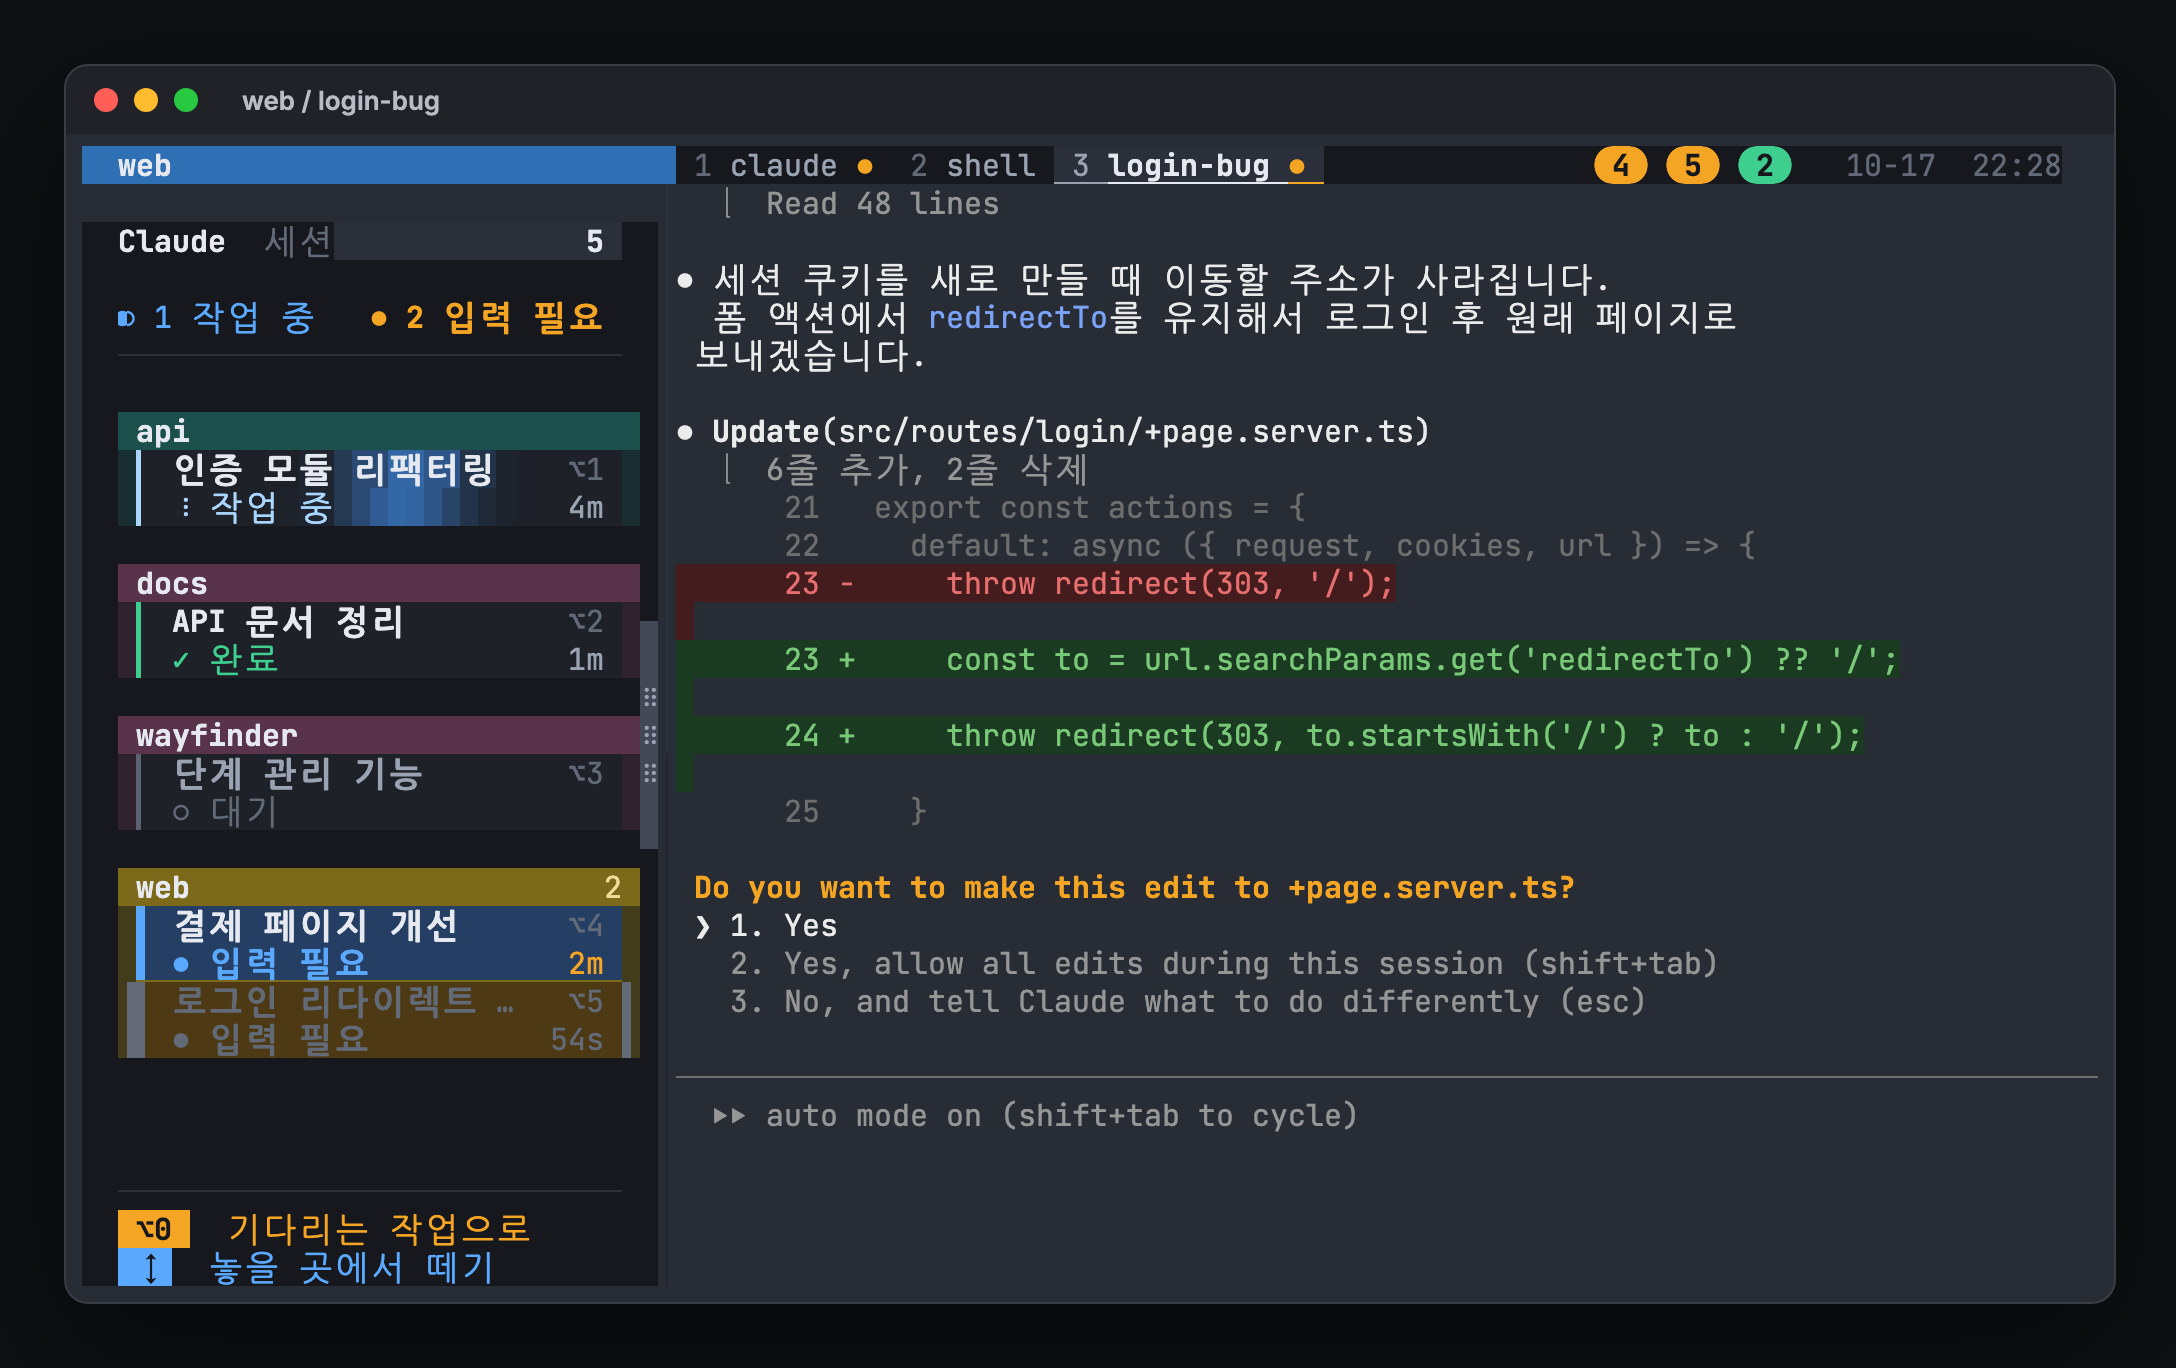
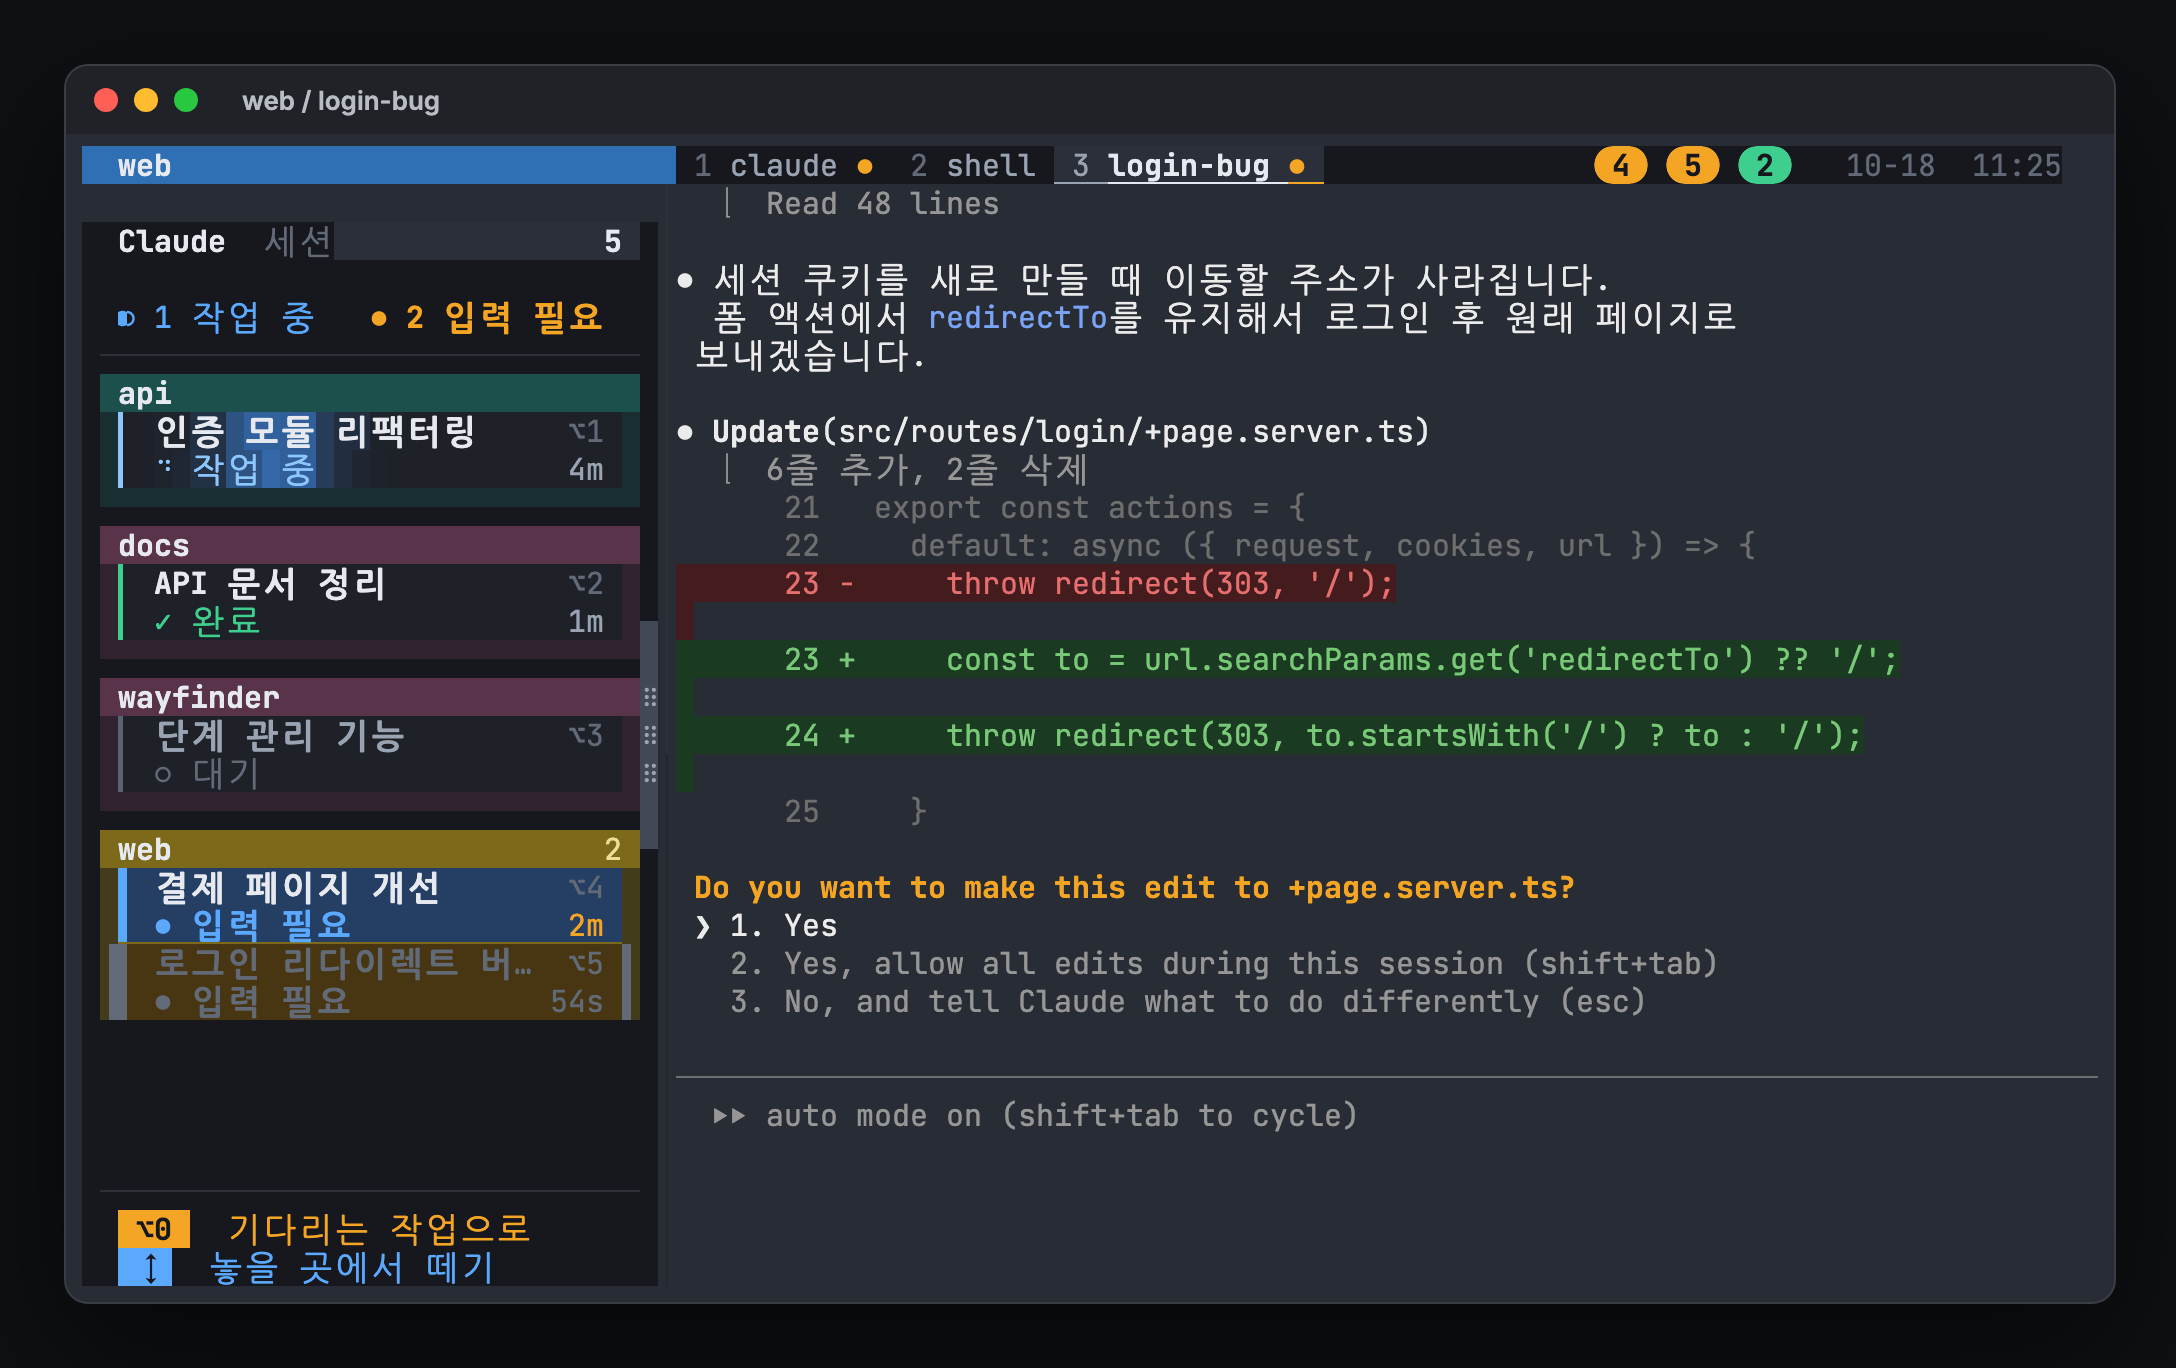
Sidebar: even gaps around project boxes
One free column on the left like the grip column on the right, one column
between columns of boxes, and half a row (a ▀ row in the box colour)
between boxes and under the rule instead of a whole blank row.

Claude-Session: https://claude.ai/code/session_01DeGU8b5o6dBWL7LV6J71n7

Changed region(s): [[0.0312, 0.2763, 0.3125, 0.7982], [0.25, 0.1535, 0.3125, 0.1842]]

diff --git a/docs/guide.en.html b/docs/guide.en.html
@@ -248,7 +248,7 @@ ul { margin: 0; padding-left: 1.2em; display: grid; gap: 4px; max-width: 65ch; }
 .side2 .hd .n { margin-left: auto; background: #2a2f3a; color: #e6e9ef; padding: 0 7px; border-radius: 3px; }
 .side2 .sum { padding: 8px 12px 8px; display: flex; gap: 12px; border-bottom: 1px solid #2c3039; margin: 0 12px; padding-inline: 0; }
 .side2 .sum .r { color: #5aa9ff; } .side2 .sum .w { color: #f5a524; font-weight: 700; }
-.side2 .bx { background: color-mix(in srgb, var(--h) 12%, #16181d); margin: 10px 12px 0; padding-bottom: 5px; }
+.side2 .bx { background: color-mix(in srgb, var(--h) 12%, #16181d); margin: 6px 6px 0; padding-bottom: 5px; }
 .side2 .bx .cd + .cd { box-shadow: inset 0 1px 0 color-mix(in srgb, var(--h) 30%, #16181d); }
 .side2 .bx .cd + .cd.sel { box-shadow: -4px 0 0 #e1e6f0, 4px 0 0 #e1e6f0, inset 0 1px 0 color-mix(in srgb, var(--h) 30%, #16181d); }
 .side2 .bx.cur { background: color-mix(in srgb, var(--h) 20%, #16181d); }

diff --git a/docs/guide.html b/docs/guide.html
@@ -248,7 +248,7 @@ ul { margin: 0; padding-left: 1.2em; display: grid; gap: 4px; max-width: 65ch; }
 .side2 .hd .n { margin-left: auto; background: #2a2f3a; color: #e6e9ef; padding: 0 7px; border-radius: 3px; }
 .side2 .sum { padding: 8px 12px 8px; display: flex; gap: 12px; border-bottom: 1px solid #2c3039; margin: 0 12px; padding-inline: 0; }
 .side2 .sum .r { color: #5aa9ff; } .side2 .sum .w { color: #f5a524; font-weight: 700; }
-.side2 .bx { background: color-mix(in srgb, var(--h) 12%, #16181d); margin: 10px 12px 0; padding-bottom: 5px; }
+.side2 .bx { background: color-mix(in srgb, var(--h) 12%, #16181d); margin: 6px 6px 0; padding-bottom: 5px; }
 .side2 .bx .cd + .cd { box-shadow: inset 0 1px 0 color-mix(in srgb, var(--h) 30%, #16181d); }
 .side2 .bx .cd + .cd.sel { box-shadow: -4px 0 0 #e1e6f0, 4px 0 0 #e1e6f0, inset 0 1px 0 color-mix(in srgb, var(--h) 30%, #16181d); }
 .side2 .bx.cur { background: color-mix(in srgb, var(--h) 20%, #16181d); }

diff --git a/CHANGELOG.md b/CHANGELOG.md
@@ -1,5 +1,11 @@
 # Changelog
 
+## Unreleased
+
+- Even gaps around the project boxes: one column on the left like the grip
+  column on the right, one column between columns of boxes, and half a row
+  between boxes and under the rule
+
 ## 0.1.23 — 2026-10-17
 
 - While connected to another Mac, dev servers started in its tmux (`npm run
